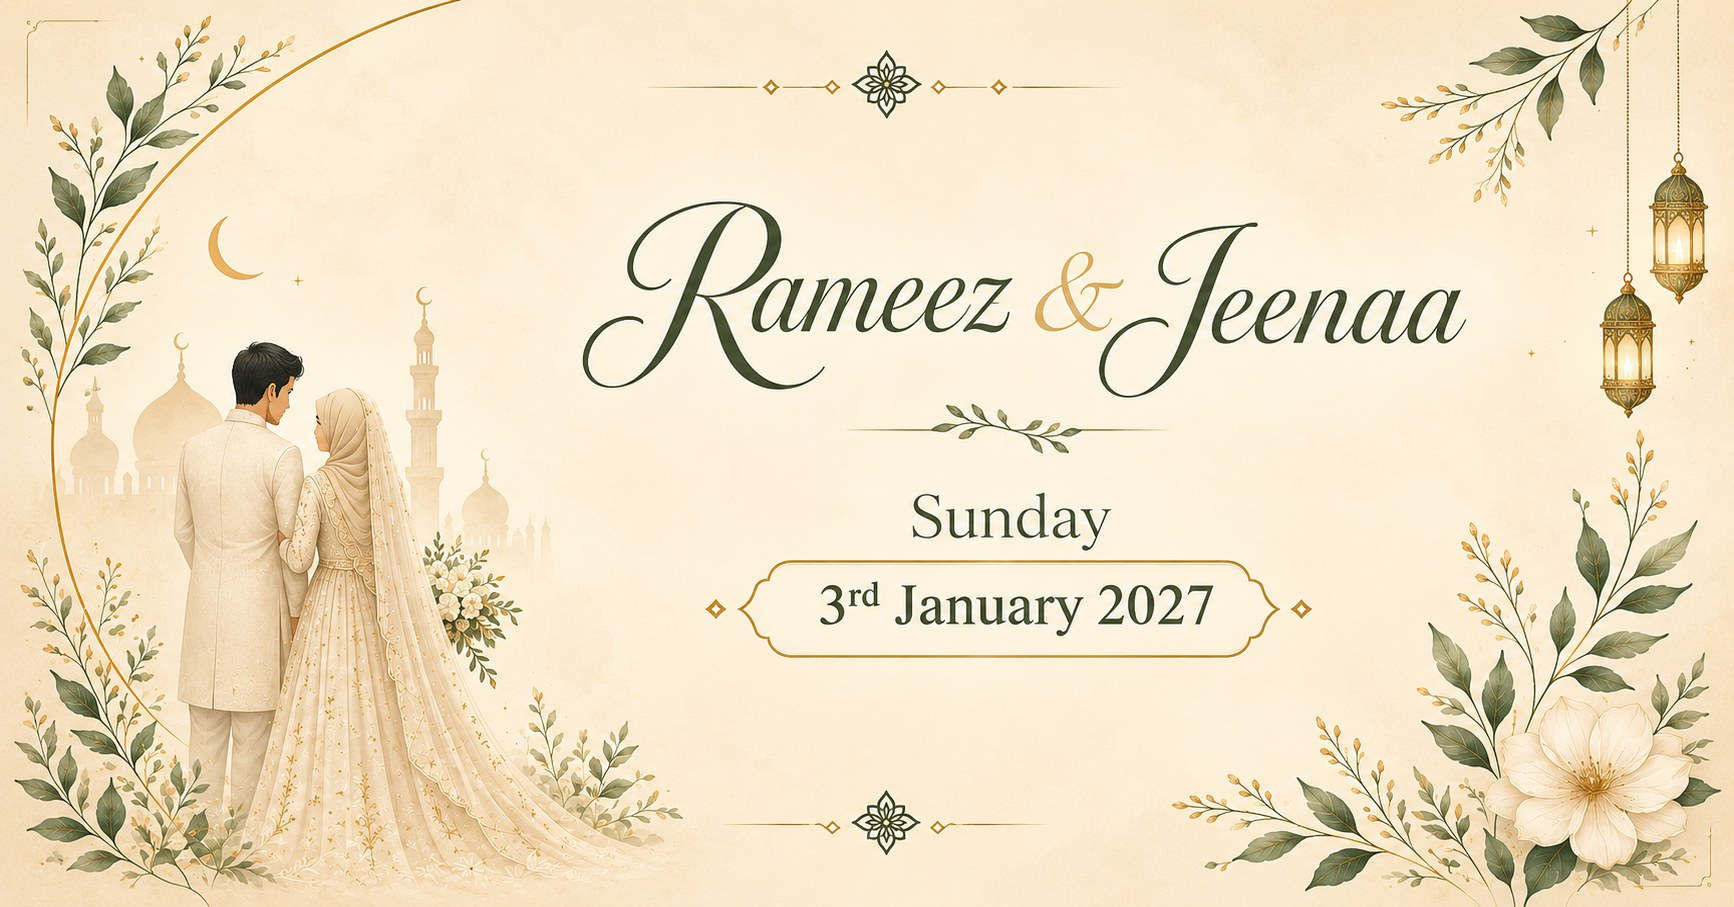
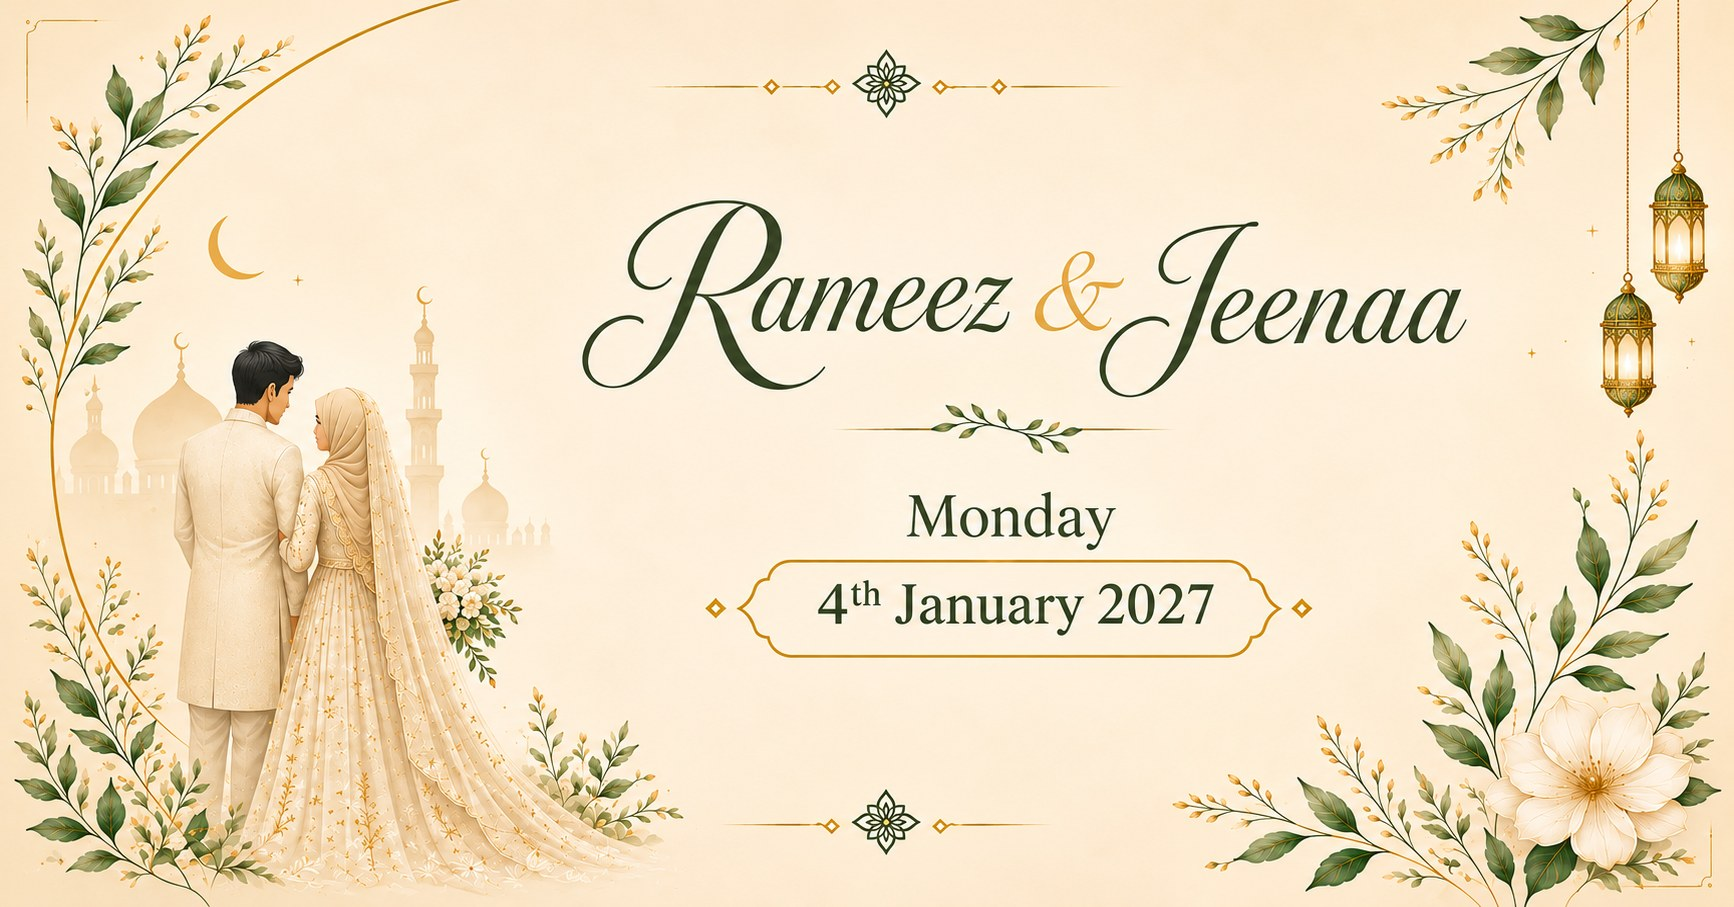
ogfd

diff --git a/index.html b/index.html
@@ -148,7 +148,7 @@
       </h1>
 
       <div class="hero-date">
-        <p class="date-en">Sunday<br>3rd January 2027</p> 
+        <p class="date-en">Monday<br>4th January 2027</p> 
       </div>
     </div>
 
@@ -190,7 +190,7 @@
         </div>
         <div>
           <p class="occasion-label">Date</p>
-          <p class="occasion-value">Sunday, 3rd January 2027</p>
+          <p class="occasion-value">Monday, 4th January 2027</p>
         </div>
       </div>
 

diff --git a/script.js b/script.js
@@ -87,7 +87,7 @@
 })();
 
 
-const NIKAH_DATE = new Date('2027-01-03T16:00:00+05:30').getTime();
+const NIKAH_DATE = new Date('2027-01-04T16:00:00+05:30').getTime();
 
 const cdDays = document.getElementById('cd-days');
 const cdHours = document.getElementById('cd-hours');
